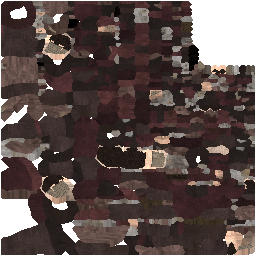
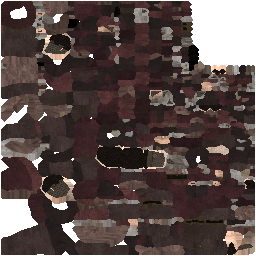
The hunter body's head in darker values, so it holds up in a room's warm torch light (Samus, from the host's eyes: still pale and featureless): the face mask's cloth darker with an uneven weave (no dot grid) and its folds, the strip under the brows in shadow with the eyes dark in it, the crop down t

diff --git a/Tools/hunter_face.py b/Tools/hunter_face.py
@@ -1,5 +1,5 @@
 # Run from a folder holding hunter_orig.png (the restyle before this pass, from git) and headmap.png/headmapx.png
-# (per-texel maps of the head written by an eval: height, normals, lateral position; see the review round 2 notes).
+# (per-texel maps of the head written by an eval: height, normals, lateral position).
 # The hunter body's head, repainted on its own texels (maps from headmap.cs: height, normals, lateral position):
 # a short dark crop over the crown, the sides down to the ears and the back to the nape (its edge texels filled so no
 # pale specks are left between triangles), the cloth face mask in a darker woven tone with folds, a seam under the eyes
@@ -25,20 +25,22 @@ def paint(mask,base,calm=1.0):
         k=1+(cl[y//2,x//2]*rng.uniform(.93,1.06)-1)*(calm if calm>0 else .35)
         out[y,x,:3]=np.clip(np.array(base)*k,0,255)
 # hair
-hair=head&((h>.78)|((h>.42)&(fw<-.3))|((h>.6)&(fw<.45)&(np.abs(nx)>.45)))&~eyes
+hair=head&((h>.71)|((h>.42)&(fw<-.3))|((h>.6)&(fw<.45)&(np.abs(nx)>.45)))&~eyes
 skinlike=(rgb[:,:,0]>140)&(rgb[:,:,0]>rgb[:,:,2]+15)
 for _ in range(2):   # fill the texels between triangles at the crop's edge
     grow=np.zeros_like(hair)
     grow[1:]|=hair[:-1]; grow[:-1]|=hair[1:]; grow[:,1:]|=hair[:,:-1]; grow[:,:-1]|=hair[:,1:]
-    hair|=grow&skinlike&~(head&(h<.78)&(fw>.3))
-paint(hair,(38,29,25))
+    hair|=grow&skinlike&~(head&(h<.71)&(fw>.3))
+paint(hair,(26,20,17))
 dark=hair&(rng.random(hair.shape)<.16); out[dark,:3]*=.7
 # face mask (cloth): below the eyes, the front and sides of the jaw
 mask=head&(h<eyeH-.015)&(fw>-.35)&~hair
-paint(mask,(134,120,104),.0)
+paint(mask,(72,64,56),.0)
 ys,xs=np.nonzero(mask)
 for y,x in zip(ys,xs):
     f=out[y,x,:3]
+    weave=1+.07*(((y+(x//3))%2)*2-1)+rng.normal(0,.035)   # threads: rows shifted every third texel, uneven
+    f*=weave
     band=(h[y,x]*14+np.sin(xf[y,x]*7)*.25)%1
     if band<.22: f*=.74
     elif band<.32: f*=1.08          # the lit top of each fold          # folds of the cloth
@@ -52,5 +54,13 @@ for dy in (-2,-1,0,1,2):
     for dx in (-2,-1,0,1,2): near|=np.roll(np.roll(eyes,dy,0),dx,1)
 sock=near&~eyes&head&~hair&~mask
 out[sock,:3]*=.78
+strip=head&~hair&~mask&~eyes&(h>=eyeH-.03)&(h<.72)&(fw>.2)
+out[strip,:3]*=.28                 # under the brows' overhang: the eyes read in a shadow, not a bright bar
+out[eyes,:3]=np.minimum(out[eyes,:3],18)
+# pale notches where the crop meets the mask at the sides: skin-like texels touching both take the hair
+touch=np.zeros_like(hair)
+for a,b in ((1,0),(-1,0),(0,1),(0,-1)): touch|=np.roll(np.roll(hair,a,0),b,1)
+gap=head&touch&~hair&~mask&~eyes&~strip&(np.abs(nx)>.35)&skinlike
+out[gap,:3]=np.array([30,23,20])
 Image.fromarray(out.astype(np.uint8)).save(T)
-print('hair',hair.sum(),'mask',mask.sum(),'socket',sock.sum())
+print('hair',hair.sum(),'mask',mask.sum(),'strip',strip.sum(),'gap',gap.sum())
